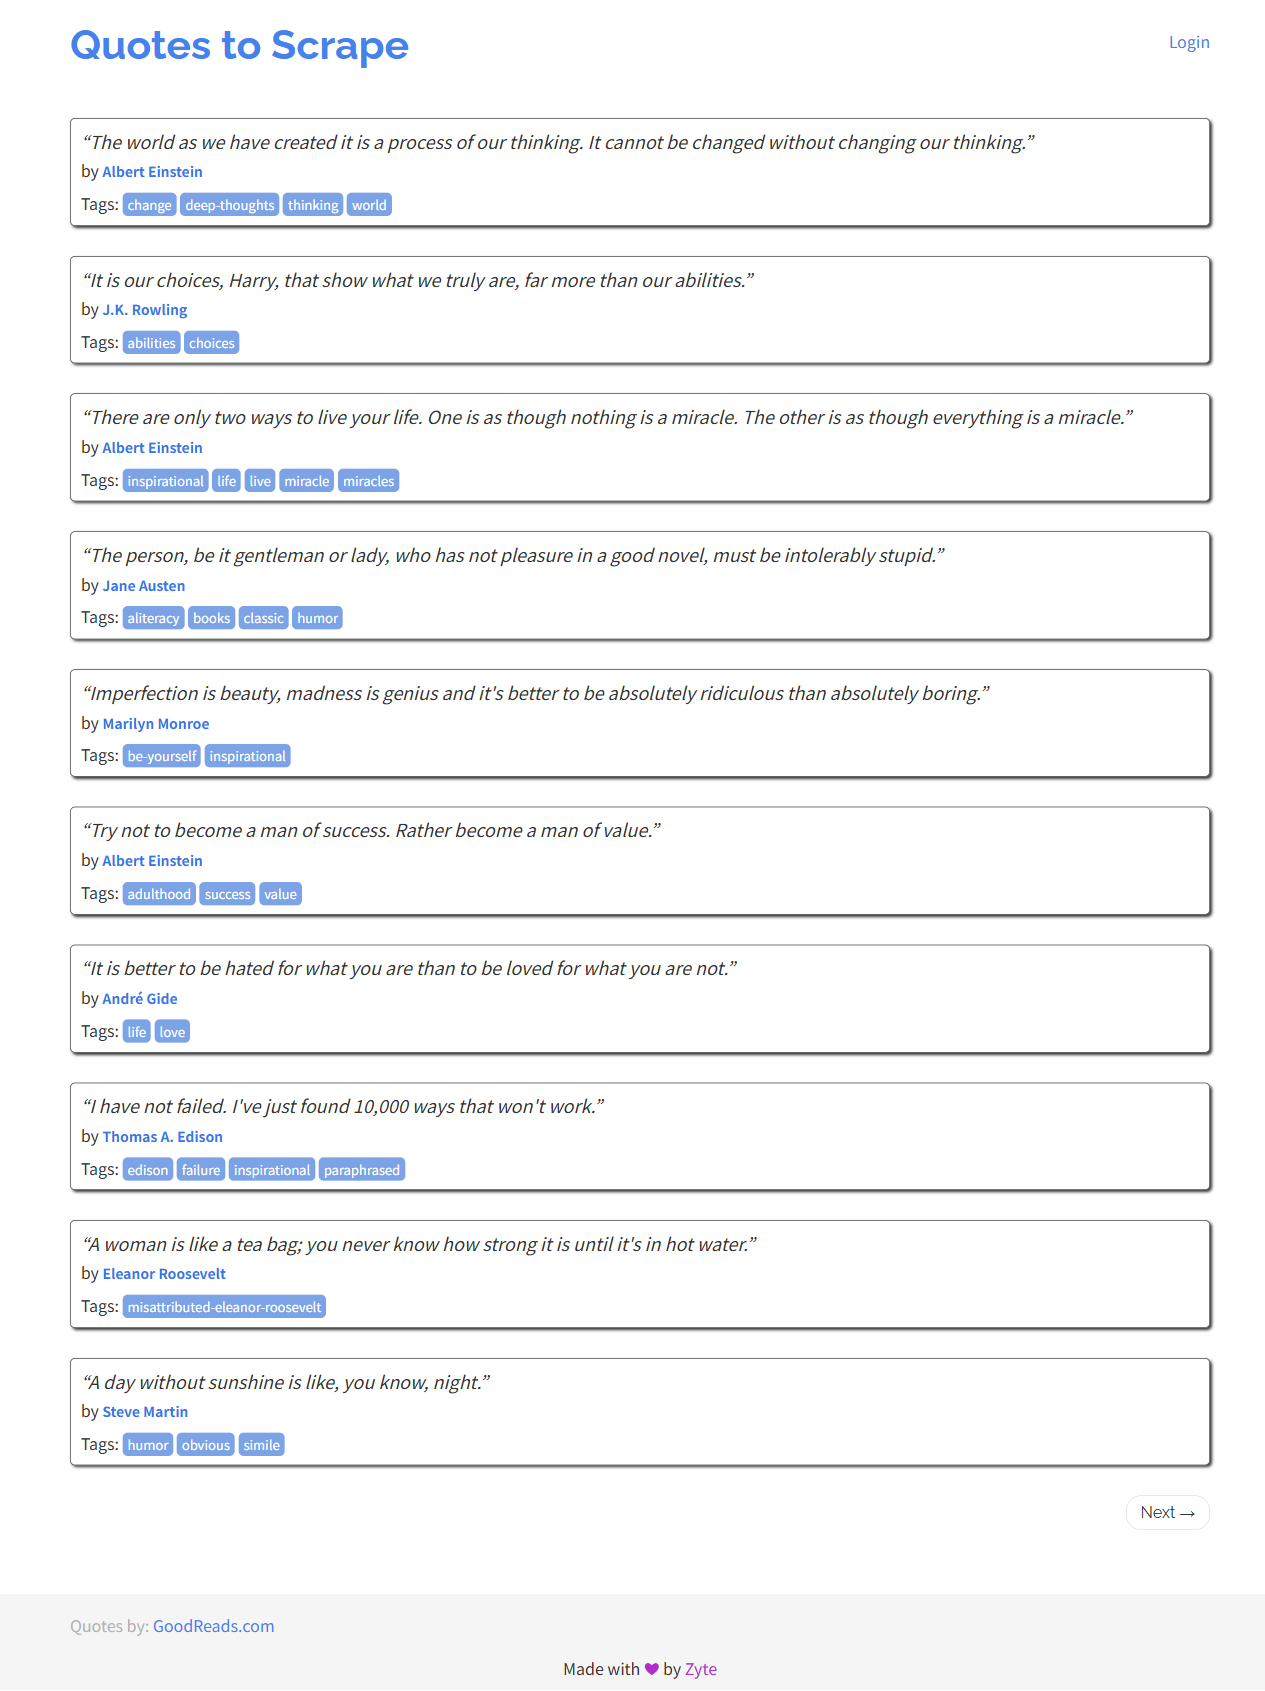
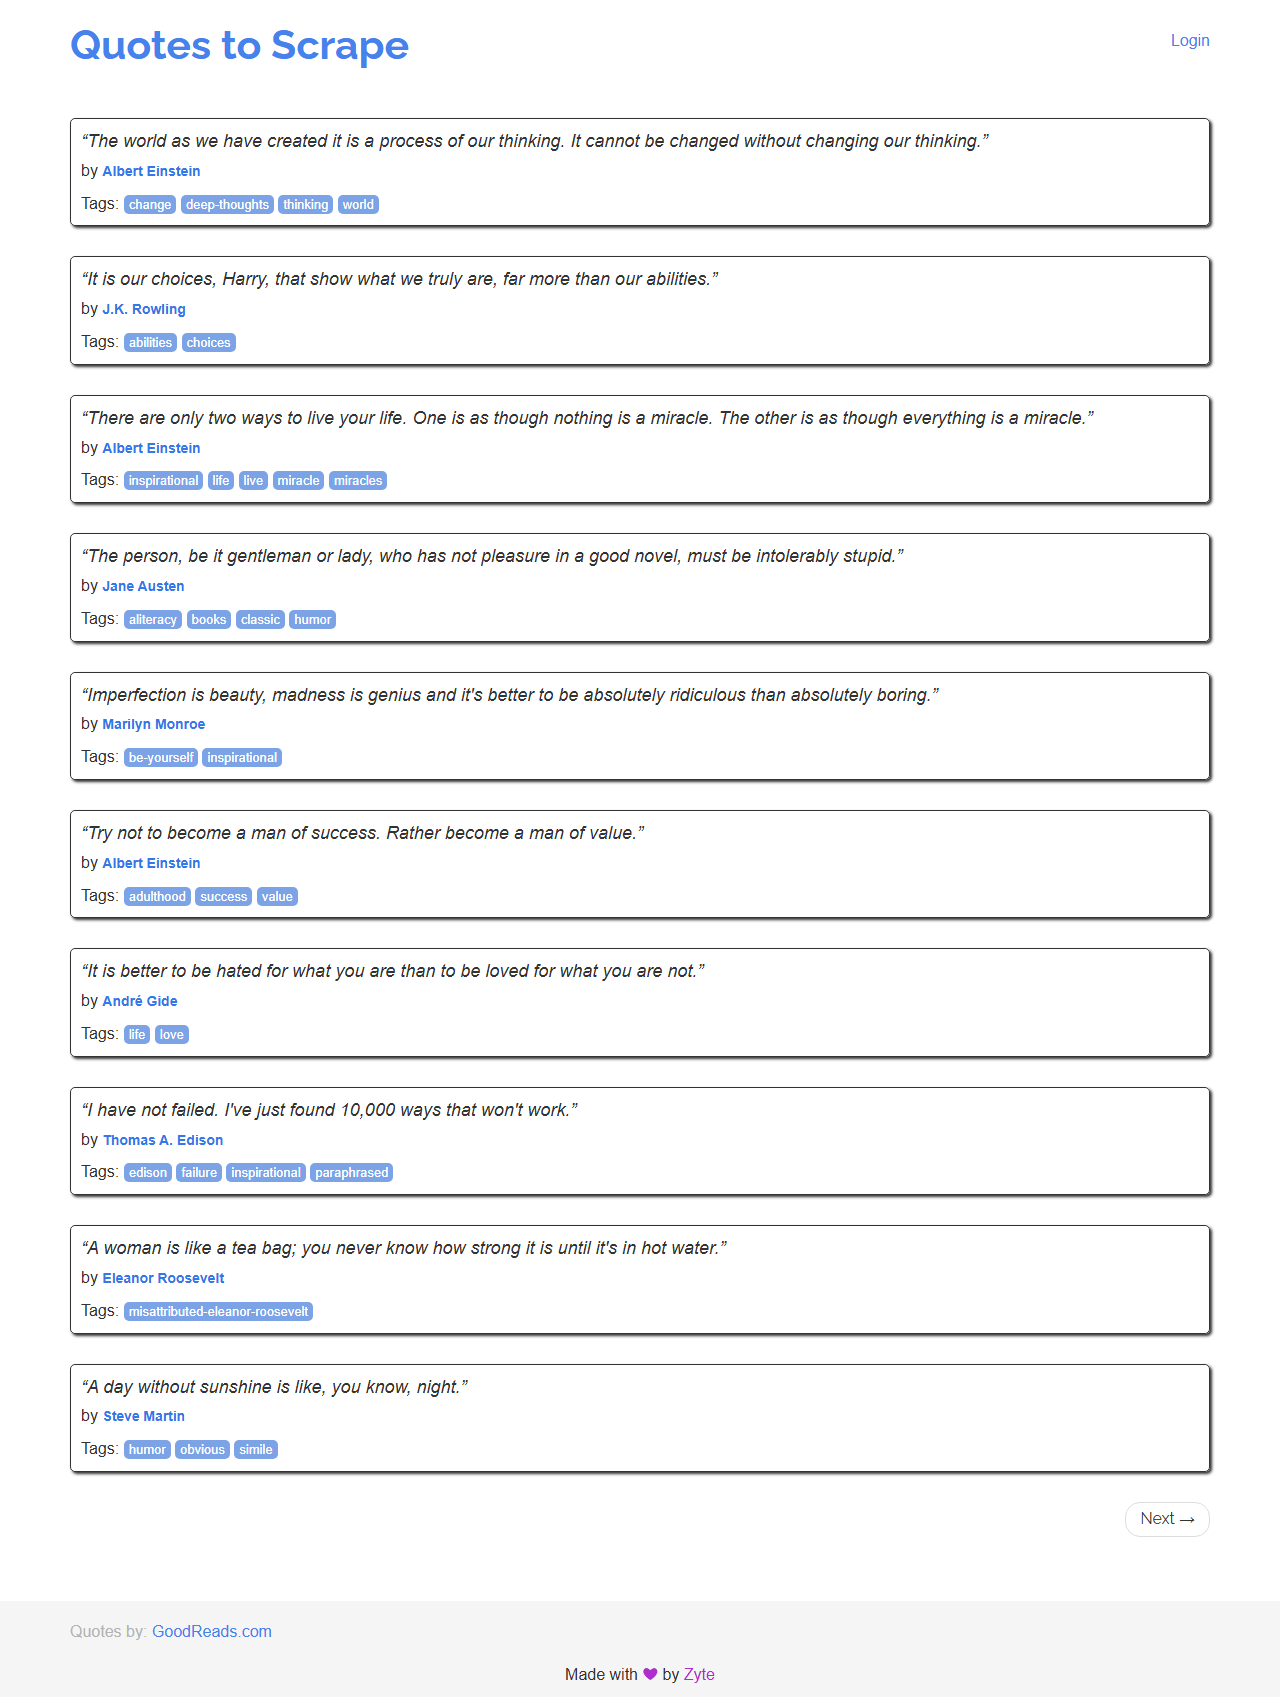
Add README and make wait/timeout/headless settings configurable via env vars
READMEに概要・セットアップ・実行方法・環境変数一覧・トラブル
シューティングを記載。CLAUDE.mdの「環境依存の設定はハードコード
しない」方針に沿って、待機時間・タイムアウト・Playwrightの
ヘッドレスモードを環境変数で上書きできるようにした。

diff --git a/scrape_quotes_playwright.py b/scrape_quotes_playwright.py
@@ -4,6 +4,7 @@ Markdownと screenshot を出力する。ブラウザは画面表示（headless=
 """
 
 import logging
+import os
 import random
 import sys
 import time
@@ -17,9 +18,10 @@ from playwright.sync_api import sync_playwright, Error as PlaywrightError, Timeo
 BASE_URL = "https://quotes.toscrape.com/"
 TARGET_URL = "https://quotes.toscrape.com/js"
 USER_AGENT = "quotes-scraper-practice/1.0 (+https://github.com/shirasaki-coder)"
-MIN_WAIT_SEC = 1.0
-MAX_WAIT_SEC = 3.0
-PAGE_TIMEOUT_MS = 15000
+MIN_WAIT_SEC = float(os.environ.get("QUOTES_MIN_WAIT_SEC", "1.0"))
+MAX_WAIT_SEC = float(os.environ.get("QUOTES_MAX_WAIT_SEC", "3.0"))
+PAGE_TIMEOUT_MS = int(os.environ.get("QUOTES_PAGE_TIMEOUT_MS", "15000"))
+HEADLESS = os.environ.get("QUOTES_HEADLESS", "false").strip().lower() in ("1", "true", "yes")
 
 logging.basicConfig(
     level=logging.INFO,
@@ -56,7 +58,7 @@ def scrape_quotes(target_url: str) -> tuple[list[dict], str]:
 
     try:
         with sync_playwright() as p:
-            browser = p.chromium.launch(headless=False)
+            browser = p.chromium.launch(headless=HEADLESS)
             page = browser.new_page(user_agent=USER_AGENT)
             page.goto(target_url, timeout=PAGE_TIMEOUT_MS, wait_until="networkidle")
             page.wait_for_selector(".quote", timeout=PAGE_TIMEOUT_MS)

diff --git a/scrape_books.py b/scrape_books.py
@@ -1,6 +1,7 @@
 """books.toscrape.com から書籍タイトル・価格・在庫状況を収集し、Markdownに出力する。"""
 
 import logging
+import os
 import random
 import sys
 import time
@@ -14,9 +15,9 @@ from bs4 import BeautifulSoup
 
 BASE_URL = "https://books.toscrape.com/"
 USER_AGENT = "books-scraper-practice/1.0 (+https://github.com/shirasaki-coder)"
-MIN_WAIT_SEC = 1.0
-MAX_WAIT_SEC = 3.0
-REQUEST_TIMEOUT = 10
+MIN_WAIT_SEC = float(os.environ.get("BOOKS_MIN_WAIT_SEC", "1.0"))
+MAX_WAIT_SEC = float(os.environ.get("BOOKS_MAX_WAIT_SEC", "3.0"))
+REQUEST_TIMEOUT = int(os.environ.get("BOOKS_REQUEST_TIMEOUT", "10"))
 
 logging.basicConfig(
     level=logging.INFO,

diff --git a/README.md b/README.md
@@ -1,0 +1,88 @@
+# python-automation
+
+Webスクレイピングの練習用スクリプトを収録したプロジェクトです。BeautifulSoupで静的サイト（books.toscrape.com）を、Playwrightでブラウザ制御によりJavaScript描画サイト（quotes.toscrape.com/js）を収集します。
+
+## 概要
+
+- `scrape_books.py`: books.toscrape.com から書籍タイトル・価格・在庫状況を収集し、Markdownに出力します。
+- `scrape_quotes_playwright.py`: quotes.toscrape.com/js（JS描画ページ）をPlaywrightで開き、名言・著者を収集してMarkdownとスクリーンショットに出力します。
+
+いずれも `robots.txt` を確認して禁止パスへはアクセスせず、リクエスト間に1〜3秒のランダムな待機を挟みます。
+
+## 必要な環境
+
+- Python 3.14 系（開発時: 3.14.7）
+- ライブラリ（[requirements.txt](requirements.txt)）
+  - `requests`
+  - `beautifulsoup4`
+  - `playwright`（別途ブラウザバイナリのインストールが必要）
+
+## セットアップ手順
+
+```powershell
+# 仮想環境の作成
+python -m venv .venv
+
+# 仮想環境の有効化（PowerShell）
+.venv\Scripts\Activate.ps1
+
+# 依存ライブラリのインストール
+pip install -r requirements.txt
+
+# Playwright用ブラウザ（Chromium）のインストール
+python -m playwright install chromium
+```
+
+## 実行方法
+
+```powershell
+# books.toscrape.com のスクレイピング（BeautifulSoup）
+python scrape_books.py
+
+# quotes.toscrape.com/js のスクレイピング（Playwright）
+python scrape_quotes_playwright.py
+```
+
+### 出力ファイル
+
+| スクリプト | 出力ファイル | 内容 |
+| --- | --- | --- |
+| `scrape_books.py` | `books_<実行日YYYYMMDD>.md` | 書籍一覧（タイトル・価格・在庫状況） |
+| `scrape_books.py` | `scrape.log` | 実行ログ（エラー時はここに記録） |
+| `scrape_quotes_playwright.py` | `quotes_<実行日YYYYMMDD>.md` | 名言一覧（名言・著者） |
+| `scrape_quotes_playwright.py` | `quotes_<実行日YYYYMMDD>.png` | ページ全体のスクリーンショット |
+| `scrape_quotes_playwright.py` | `scrape_quotes.log` | 実行ログ（エラー時はここに記録） |
+
+## 設定できる項目（環境変数）
+
+すべて未設定時はデフォルト値で動作します。PowerShellでは `$env:変数名 = "値"` で設定してください。
+
+| 変数名 | 対象スクリプト | 説明 | デフォルト値 |
+| --- | --- | --- | --- |
+| `BOOKS_MIN_WAIT_SEC` | scrape_books.py | リクエスト間待機時間の下限（秒） | `1.0` |
+| `BOOKS_MAX_WAIT_SEC` | scrape_books.py | リクエスト間待機時間の上限（秒） | `3.0` |
+| `BOOKS_REQUEST_TIMEOUT` | scrape_books.py | HTTPリクエストのタイムアウト（秒） | `10` |
+| `QUOTES_MIN_WAIT_SEC` | scrape_quotes_playwright.py | リクエスト間待機時間の下限（秒） | `1.0` |
+| `QUOTES_MAX_WAIT_SEC` | scrape_quotes_playwright.py | リクエスト間待機時間の上限（秒） | `3.0` |
+| `QUOTES_PAGE_TIMEOUT_MS` | scrape_quotes_playwright.py | ページ読み込み・要素待機のタイムアウト（ミリ秒） | `15000` |
+| `QUOTES_HEADLESS` | scrape_quotes_playwright.py | `true`にするとブラウザを非表示（ヘッドレス）で起動 | `false`（画面表示） |
+
+例（PowerShell）:
+
+```powershell
+$env:QUOTES_HEADLESS = "true"
+$env:BOOKS_MIN_WAIT_SEC = "2.0"
+python scrape_quotes_playwright.py
+```
+
+## よくあるエラーと対処法
+
+| 症状 | 原因 | 対処法 |
+| --- | --- | --- |
+| `接続エラーが発生しました` のログを出力して終了する | 対象サイトに接続できない（ネットワーク不通、サイト側の障害、タイムアウト） | インターネット接続とサイトの稼働状況を確認し、再実行する。タイムアウトが頻発する場合は `BOOKS_REQUEST_TIMEOUT` / `QUOTES_PAGE_TIMEOUT_MS` を増やす |
+| `robots.txtにより...アクセスは禁止されています` と表示されて処理が中断する | 対象サイトの `robots.txt` が該当パスへのアクセスを禁止している | 仕様通りの動作。対象サイトのポリシーに従い、そのパスへのアクセスは行わない |
+| `robots.txtの取得に失敗しました` | `robots.txt` へのアクセス自体がネットワークエラーで失敗 | ネットワーク接続を確認して再実行する |
+| コンソール上で日本語ログが文字化けする（例: `�y�[�W`） | Windowsのコンソールが既定でUTF-8以外のコードページになっている | ログの内容自体はUTF-8で正しく保存されている（`scrape.log` / `scrape_quotes.log`）。コンソール表示を直す場合は事前に `chcp 65001` を実行するか、`$env:PYTHONIOENCODING = "utf-8"` を設定する |
+| `playwright._impl._errors.Error: Executable doesn't exist` 等でPlaywright実行時にブラウザが見つからない | Playwright本体はインストール済みだがブラウザバイナリが未取得 | `python -m playwright install chromium` を実行する |
+| `ModuleNotFoundError: No module named 'bs4'` / `'playwright'` など | 仮想環境が有効化されていない、または依存関係が未インストール | `.venv\Scripts\Activate.ps1` で仮想環境を有効化してから `pip install -r requirements.txt` を実行する |
+| Playwright実行時にブラウザ画面が表示されない・固まる | リモートデスクトップや画面のないサーバー環境で `QUOTES_HEADLESS=false`（既定）のまま実行している | 画面表示が不要な環境では `QUOTES_HEADLESS=true` を設定してヘッドレスで実行する |

diff --git a/quotes_20260909.md b/quotes_20260909.md
@@ -1,6 +1,6 @@
 # quotes.toscrape.com (JS) 名言一覧
 
-取得日時: 2026-09-09 08:32:09
+取得日時: 2026-09-09 09:12:34
 収集元: https://quotes.toscrape.com/js
 件数: 10
 
